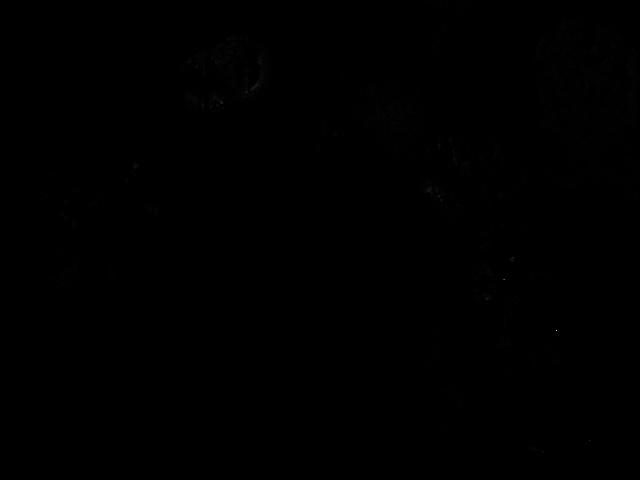
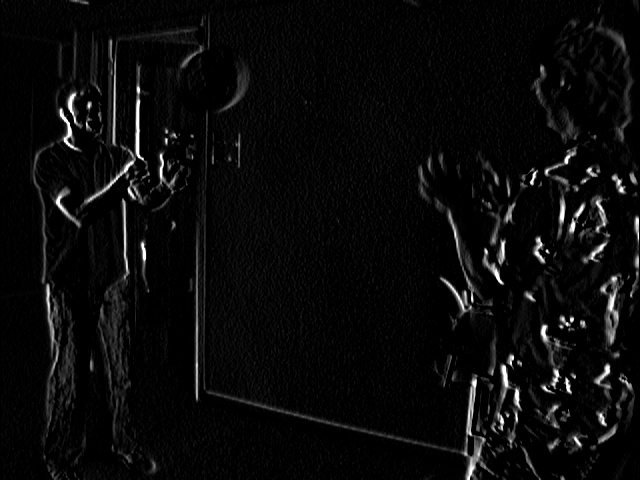
3D world

diff --git a/OpticalFlow/main.py b/OpticalFlow/main.py
@@ -51,13 +51,17 @@ class OpticalFlow():
         fig = plt.figure(figsize= (10, 10))
         fig2 = plt.figure(figsize= (10, 10))
         fig3 = plt.figure(figsize= (10, 10))
+        fig4 = plt.figure(figsize= (10, 10))
+        fig5 = plt.figure(figsize= (10, 10))
+        fig6 = plt.figure(figsize= (10, 10))
+        fig7 = plt.figure(figsize= (10, 10))
 
         for index in range(1,len(images)):
-
-            img1 = cv2.imread(image_path[index-1], cv2.IMREAD_GRAYSCALE)
-            img2 = cv2.imread(image_path[index], cv2.IMREAD_GRAYSCALE)
-            img1 = img1/255
-            img2 = img2/255
+            print("Image :", index)
+            img_1 = cv2.imread(image_path[index-1], cv2.IMREAD_GRAYSCALE)
+            img_2 = cv2.imread(image_path[index], cv2.IMREAD_GRAYSCALE)
+            img1 = img_1#/255
+            img2 = img_2#/255
             img_1_x = cv2.Sobel(img1, cv2.CV_64F, 1, 0, ksize=3, borderType=cv.BORDER_DEFAULT)
             cv2.imwrite('ok.jpg', img_1_x)
             filter_x = np.transpose(np.array([[-1., -1.], [1., 1.]]))
@@ -84,23 +88,57 @@ class OpticalFlow():
                 kernel = np.ones((2,2),np.float32)/25
                 avg_u = cv.filter2D(u,-1,kernel)
                 avg_v = cv.filter2D(v,-1,kernel)
-                
                 iteration += 1
                 
             flow = flow_uv_to_colors(u,v)
+            img_flo = np.concatenate([img_1, flow[:,:,1]], axis=0)
+            
             ax = fig.add_subplot(3, 3, index)
             ax.imshow(flow)
             ax2 = fig2.add_subplot(3, 3, index)
             ax2.imshow(v)
             ax3 = fig3.add_subplot(3, 3, index)
             ax3.imshow(u)
-        # plt.show()
+
+            u = np.zeros(img1.shape)
+            v = np.zeros(img1.shape)
+            n = 1
+            for i in range(1, u.shape[0]):
+                for j in range(1, u.shape[1]):
+                    Ixpi = np.sum(np.power(Ix[i - n:i+n+1, j - n:j + n + 1],2))
+                    Iypi = np.sum(np.power(Iy[i - n:i+n+1, j - n:j + n + 1],2))
+                    IxIy = np.sum(np.multiply(Ix[i - n:i+n+1, j - n:j + n + 1], Iy[i - n:i+n+1, j - n:j + n + 1]))
+                    A = np.array([[Ixpi, IxIy],[IxIy,Iypi]])
+                    try:
+                        A_inv = np.linalg.inv(A)
+                    except:
+                        A_inv = A
+                    IxIt = -1*np.sum(np.multiply(Ix[i - n:i+n+1, j - n:j + n + 1], It[i - n:i+n+1, j - n:j + n + 1]))
+                    IyIt = -1*np.sum(np.multiply(Iy[i - n:i+n+1, j - n:j + n + 1], It[i - n:i+n+1, j - n:j + n + 1]))
+                    P = np.array([[IxIt],[IyIt]])
+                    uv = np.matmul(A_inv, P)
+                    u[i, j] = uv[0]
+                    v[i, j] = uv[1]
+            n, m = u.shape
+            [X,Y] = np.meshgrid(np.arange(m, dtype = 'float64'), np.arange(n, dtype = 'float64'))
+            new_flow = flow_uv_to_colors(u,v)
+            ax4 = fig4.add_subplot(3, 3, index)
+            ax4.imshow(u)
+            ax5 = fig5.add_subplot(3, 3, index)
+            ax5.imshow(v)
+            ax6 = fig6.add_subplot(3, 3, index)
+            ax6.imshow(new_flow)
+            img_flo = np.concatenate([img_flo, new_flow[:,:,1]], axis=0)
+            cv2.imshow('image', img_flo[:, :]/255.0)
+            cv2.waitKey()
         
-        
+
+        plt.show()
+            
         #KANADE EQUATION
         # try least squares fit
         # Compute A matrixes
-        
+        # Ixpi = 
         
         # plt.subplot(1, 2, 2)
         # plt.imshow(v, cmap = 'gray')
